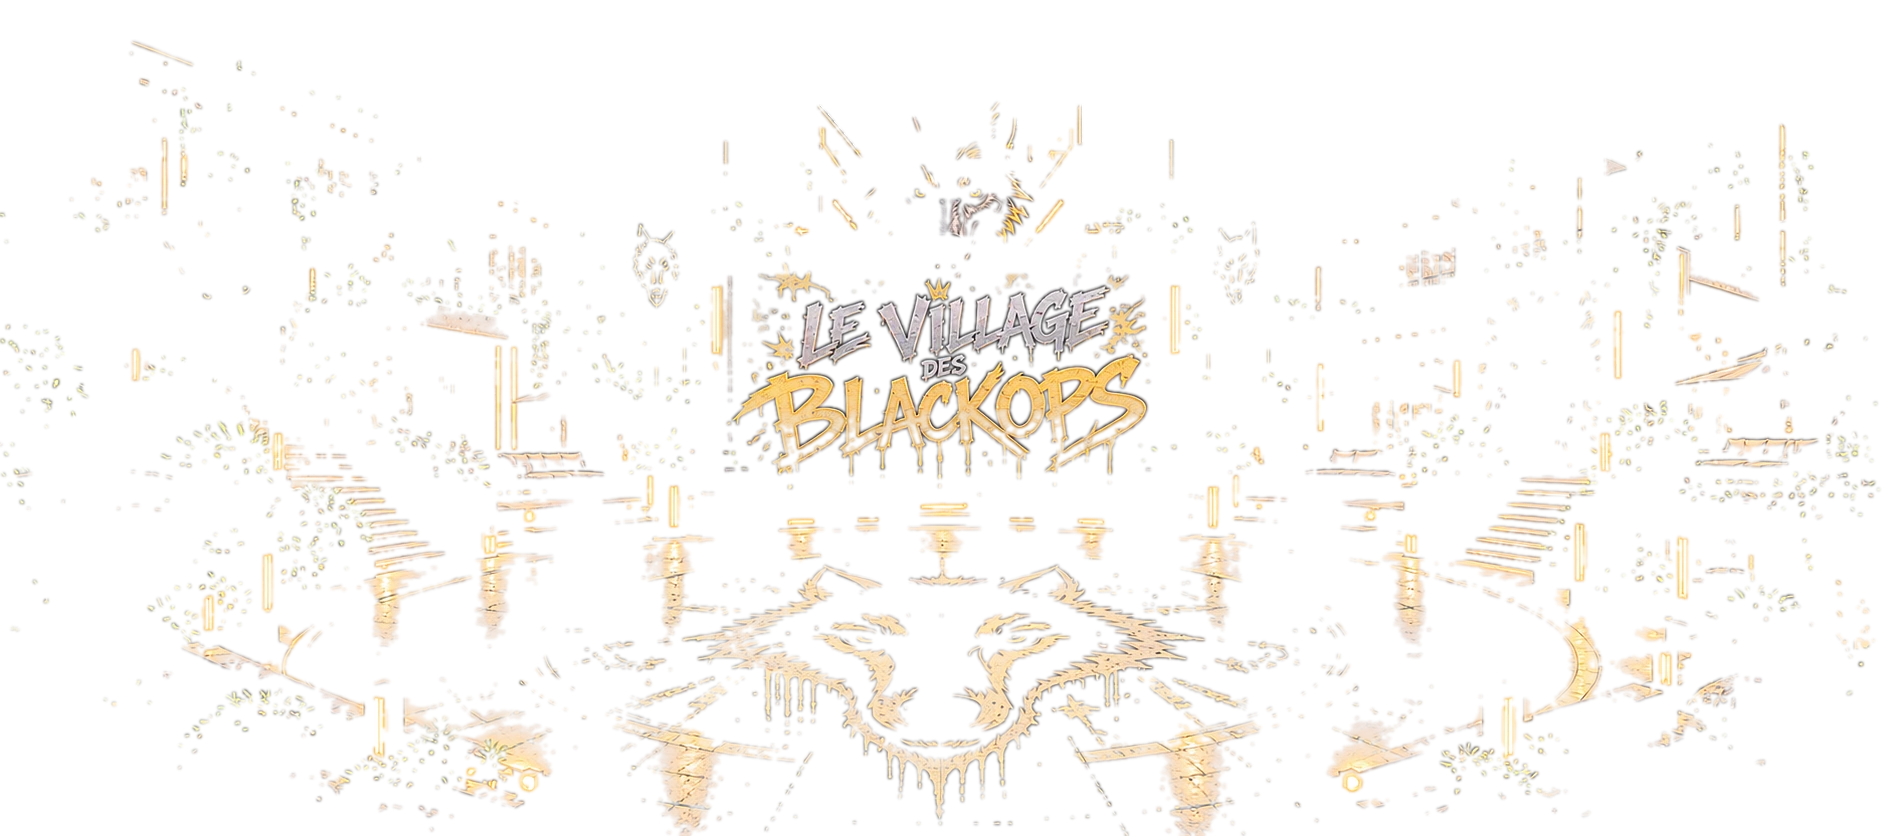
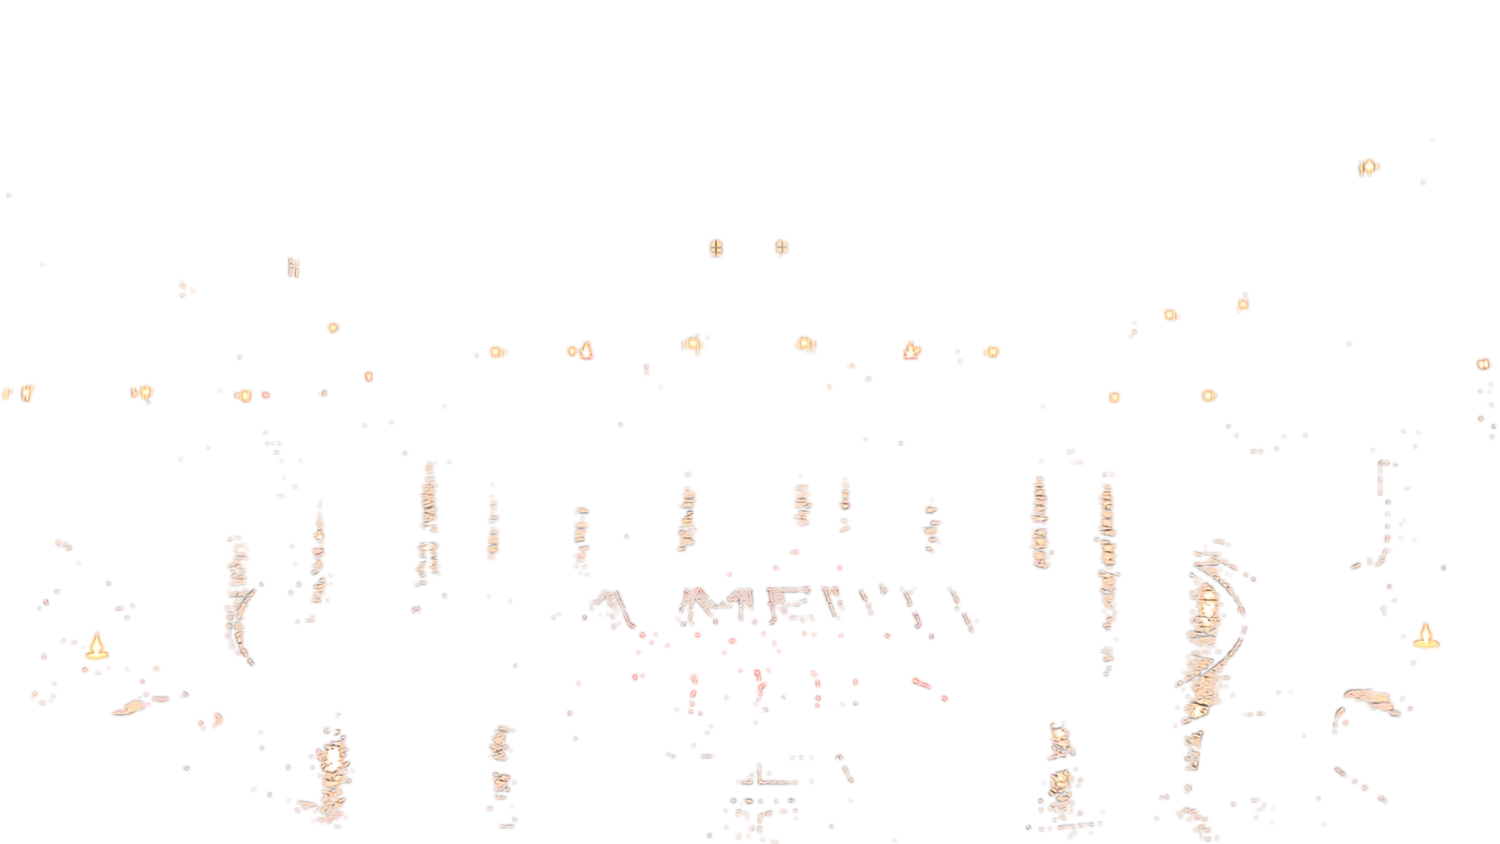
Nouveau décor principal « La Meute Noire » : griffe rouge éclairée, lumières rouges pour Halloween
- Le décor fourni remplace le décor principal (même identifiant de map : les
  salons existants passent dessus tout seuls) ; place des joueurs sur l'anneau
  de l'emblème.
- La griffe et les lettres rouges au milieu de la place forment un calque à
  part (decor.py --claw) : elles rougeoient un peu le jour, fort la nuit, et
  palpitent doucement.
- Halloween : toutes les lumières du village virent au rouge (halos et
  lampes). L'ancien décor spécial Halloween n'est plus utilisé.

Claude-Session: https://claude.ai/code/session_016QFmvqjMsiPwrgpkxjXLAF

diff --git a/public/style.css b/public/style.css
@@ -84,6 +84,16 @@ code { background: rgba(0, 0, 0, 0.08); padding: 1px 5px; border-radius: 4px; }
 .glow { position: absolute; border-radius: 50%; background: radial-gradient(circle, rgba(255, 205, 100, 0.55), rgba(255, 150, 50, 0.16) 42%, transparent 70%); }
 .glow.window { background: radial-gradient(circle, rgba(255, 200, 90, 0.45), rgba(255, 150, 50, 0.1) 45%, transparent 70%); }
 .glow.sign { display: none; }
+/* Griffe rouge au milieu de la place : rougeoie un peu le jour, fort la nuit, et palpite doucement. */
+.claw-glow { position: absolute; pointer-events: none; mix-blend-mode: screen; opacity: calc(0.35 + 0.65 * var(--night, 0)); }
+.claw-glow[hidden] { display: none; }
+.claw-glow img { display: block; width: 100%; height: 100%; filter: brightness(1.5) saturate(1.4) drop-shadow(0 0 6px rgba(255, 40, 30, 0.95)) drop-shadow(0 0 18px rgba(255, 20, 10, 0.6)); animation: claw-pulse 2.6s ease-in-out infinite; }
+@keyframes claw-pulse { 0%, 100% { opacity: 0.7; } 50% { opacity: 1; } }
+.reduce-motion .claw-glow img { animation: none; }
+.glow.claw { background: radial-gradient(ellipse, rgba(255, 40, 30, 0.5), rgba(200, 10, 10, 0.18) 45%, transparent 70%); transform: scaleY(0.45); }
+/* Halloween : toutes les lumières du village virent au rouge. */
+.halloween .glow:not(.claw) { background: radial-gradient(circle, rgba(255, 70, 50, 0.6), rgba(220, 30, 20, 0.2) 42%, transparent 70%); }
+.halloween .custom-decor .lights { filter: brightness(1.25) saturate(1.3) hue-rotate(-28deg) drop-shadow(0 0 5px rgba(255, 50, 30, 0.9)) drop-shadow(0 0 14px rgba(220, 20, 10, 0.6)); }
 .glow.fire { background: radial-gradient(circle, rgba(255, 220, 120, 0.85), rgba(255, 130, 40, 0.35) 35%, rgba(255, 90, 20, 0.08) 60%, transparent 72%); }
 .fx { pointer-events: none; }
 .pions { pointer-events: none; }

diff --git a/public/js/board/board.js b/public/js/board/board.js
@@ -35,6 +35,7 @@ export class Board extends EventTarget {
           <div class="night"></div>
           <div class="moonlight"><div class="moon"></div></div>
           <img class="lights" alt="" draggable="false"/>
+          <div class="claw-glow" hidden><img alt="" draggable="false"/></div>
           <div class="glows"></div>
         </div>
         <div class="pions"></div>
@@ -74,8 +75,6 @@ export class Board extends EventTarget {
     this.decorWanted = name;
     const forced = new URLSearchParams(location.search).get('decor'); // ?decor=… pour tester
     let decor = forced || name || DEFAULT_DECOR;
-    // Halloween 🎃 : le décor Blackops a sa version Halloween (même cadrage, même place).
-    if (decor === 'blackops' && document.documentElement.classList.contains('halloween')) decor = 'blackops-halloween';
     if (decor === this.decor) return;
     this.decor = decor;
     this.loadLights(decor);
@@ -107,6 +106,13 @@ export class Board extends EventTarget {
           if (src) img.src = src;
         }
         this.stage.classList.add('custom-decor');
+      }
+      // Emblème au sol éclairé en rouge (griffe) : petit calque à part, qui rougeoie la nuit.
+      const claw = this.stage.querySelector('.claw-glow');
+      claw.hidden = !data.claw;
+      if (data.claw) {
+        Object.assign(claw.style, { left: `${data.claw.x}px`, top: `${data.claw.y}px`, width: `${data.claw.w}px`, height: `${data.claw.h}px` });
+        claw.firstElementChild.src = data.claw.image;
       }
       this.square = data.square;
       this.decorLayout = data.layout ?? {};

diff --git a/public/index.html b/public/index.html
@@ -14,7 +14,7 @@
     <meta name="apple-mobile-web-app-status-bar-style" content="black" />
     <meta name="apple-mobile-web-app-title" content="Blackops" />
     <link rel="preload" href="/fonts/bangers-latin.woff2" as="font" type="font/woff2" crossorigin />
-    <link rel="preload" href="/assets/decor/blackops.webp?v=3" as="image" />
+    <link rel="preload" href="/assets/decor/blackops.webp?v=4" as="image" />
     <link rel="stylesheet" href="/style.css" />
   </head>
   <body>

diff --git a/public/js/maps.js b/public/js/maps.js
@@ -1,5 +1,5 @@
 /** Maps au choix dans le lobby — même liste que src/shared/maps.ts (vérifié par un test). */
 export const MAPS = [
-  { id: 'blackops', name: 'Le Village des Blackops', preview: '/assets/decor/blackops.webp?v=3' },
+  { id: 'blackops', name: 'La Meute Noire', preview: '/assets/decor/blackops.webp?v=4' },
   { id: 'clairiere', name: 'La Clairière', preview: '/assets/decor/clairiere.webp?v=3' },
 ];

diff --git a/src/shared/maps.ts b/src/shared/maps.ts
@@ -1,6 +1,6 @@
 /** Maps (décors) au choix dans le lobby. `id` = fichier public/assets/decor/<id>.json ; 'village' = village dessiné. */
 export const MAPS = [
-  { id: 'blackops', name: 'Le Village des Blackops' },
+  { id: 'blackops', name: 'La Meute Noire' },
   { id: 'clairiere', name: 'La Clairière' },
 ] as const;
 

diff --git a/scripts/art/decor.py b/scripts/art/decor.py
@@ -11,6 +11,8 @@ Usage (outil ponctuel, hors dépendances du jeu : pip install pillow) :
                                [--gap degrés] [--mobile-width px] [--mobile-scale k] [--mobile-top y]
   --mobile-top : téléphone en plein écran ; y (pixels du PLATEAU 1536×1024) sous lequel
                  commencent les joueurs (ex. bas de l'enseigne).
+  --claw x0,y0,x1,y1 : emblème rouge (griffe) au sol, éclairé en rouge : ses pixels rouges
+                 forment un calque à part (<nom>-claw.webp), qui rougeoie et palpite la nuit.
 
 --glow : zone (ex. une enseigne) dont les parties claires s'illuminent la nuit.
 Coordonnées de --plaza et --glow en pixels de l'IMAGE SOURCE : centre et rayons du cercle
@@ -24,7 +26,7 @@ from pathlib import Path
 from PIL import Image, ImageFilter
 
 W, H = 1536, 1024
-VERSION = 3  # à augmenter quand on remplace le décor (force le rechargement chez les joueurs)
+VERSION = 4  # à augmenter quand on remplace le décor (force le rechargement chez les joueurs)
 OUT = Path(__file__).resolve().parents[2] / 'public' / 'assets' / 'decor'
 
 
@@ -34,6 +36,7 @@ def main():
     if '--plaza' in sys.argv:
         plaza = [float(v) for v in sys.argv[sys.argv.index('--plaza') + 1].split(',')]
     glows = [[int(v) for v in sys.argv[i + 1].split(',')] for i, a in enumerate(sys.argv) if a == '--glow']
+    claw = [int(v) for v in sys.argv[sys.argv.index('--claw') + 1].split(',')] if '--claw' in sys.argv else None
     # Disposition : --gap (degrés laissés libres en haut du cercle, ex. devant une enseigne),
     # --mobile-width (largeur de plateau visible sur téléphone), --mobile-scale (taille des pions sur téléphone).
     layout = {}
@@ -113,6 +116,28 @@ def main():
         cx, cy = (x0 + x1) / 2 * s + offx, (y0 + y1) / 2 * s
         spots.append({'x': round(cx / W, 4), 'y': round(cy / H, 4), 'r': round((x1 - x0) * s * 0.75 / W, 4), 'kind': 'sign'})
 
+    # --- Griffe rouge : calque recadré sur l'emblème (petit calque, animé sans alourdir l'écran)
+    claw_cfg = None
+    if claw:
+        x0, y0, x1, y1 = claw
+        cm = Image.new('L', (x1 - x0, y1 - y0), 0)
+        cp = cm.load()
+        for y in range(y0, y1):
+            for x in range(x0, x1):
+                r, g, b, a = px[x, y]
+                if a > 200 and r > 140 and r - g > 70 and r - b > 60:
+                    cp[x - x0, y - y0] = min(255, int((r - max(g, b)) * 2.2))
+        cm = cm.filter(ImageFilter.MaxFilter(3)).filter(ImageFilter.GaussianBlur(1))
+        part = im.crop((x0, y0, x1, y1))
+        part.putalpha(cm)
+        part.save(OUT / f'{name}-claw.webp', 'WEBP', quality=90, method=6)
+        claw_cfg = {
+            'image': f'/assets/decor/{name}-claw.webp?v={VERSION}',
+            'x': round(x0 * s + offx, 1), 'y': round(y0 * s, 1), 'w': round((x1 - x0) * s, 1), 'h': round((y1 - y0) * s, 1),
+        }
+        cx, cy = (x0 + x1) / 2 * s + offx, (y0 + y1) / 2 * s
+        spots.append({'x': round(cx / W, 4), 'y': round(cy / H, 4), 'r': round((x1 - x0) * s * 0.6 / W, 4), 'kind': 'claw'})
+
     if plaza:
         pcx, pcy, prx, pry = plaza
         # computeLayout : centre = cy*H + 20, rayons = rx*W*0.8 et ry*H*0.78
@@ -129,6 +154,8 @@ def main():
         'layout': layout,
         'lights': spots,
     }
+    if claw_cfg:
+        cfg['claw'] = claw_cfg
     (OUT / f'{name}.json').write_text(json.dumps(cfg))
     print(f'{name} : {len(spots)} lumières, place {square}')
 

diff --git a/docs/ARCHITECTURE.md b/docs/ARCHITECTURE.md
@@ -295,15 +295,15 @@ Fichiers : `src/server/voiceSfu.ts`, `src/server/ice.ts`, `public/js/voiceSfu.js
 
 ## 13. Décor fourni, personnages modernes, robustesse de la voix
 
-- **Décor par défaut** : `public/assets/decor/blackops.*`, généré depuis
-  `scripts/art/decor-src/blackops.png` par `scripts/art/decor.py` (ciel transparent →
+- **Décor par défaut** (La Meute Noire) : `public/assets/decor/blackops.*`, généré depuis
+  `scripts/art/decor-src/lameute.png` par `scripts/art/decor.py` (ciel transparent →
   ciel animé derrière ; calque des lumières isolé pour la nuit ; enseignes illuminées via
   `--glow` ; place des joueurs via `--plaza`, arc libre devant l'enseigne via `--gap`,
-  cadrage téléphone via `--mobile-width` / `--mobile-gap` / `--mobile-scale`).
+  cadrage téléphone via `--mobile-width` / `--mobile-gap` / `--mobile-scale` ; griffe rouge
+  au sol via `--claw`, calque à part qui rougeoie la nuit).
   `?decor=village` réaffiche l'ancien village dessiné.
-- **Halloween** : en octobre (désactivable dans le menu), le décor Blackops est remplacé par
-  `blackops-halloween` (source `scripts/art/decor-src/blackops-halloween.png`, même cadrage) ;
-  `public/js/halloween.js` ajoute brume, fantômes, chauves-souris et toiles ; les personnages sont costumés.
+- **Halloween** : en octobre (désactivable dans le menu), toutes les lumières du village virent
+  au rouge ; `public/js/halloween.js` ajoute brume, fantômes, chauves-souris et toiles ; les personnages sont costumés.
 - **Téléphone** : la marge au-dessus du plateau prolonge la couleur du ciel
   (`--sky-top` / `--sky-mid` fournis par `DayNight`), le narrateur s'y affiche.
 - **Personnages** (`public/js/art/characters.js`) : tenues modernes décrites par
